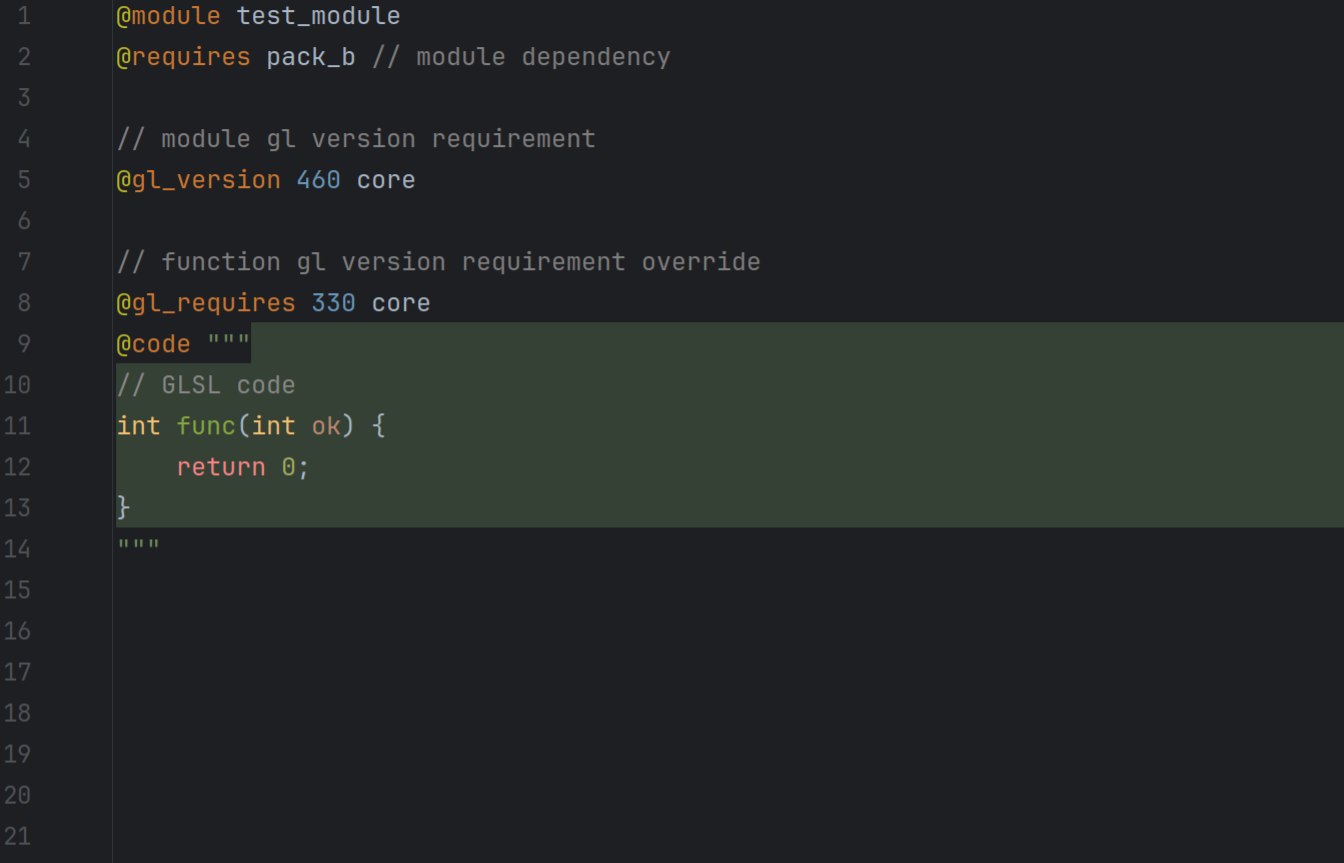
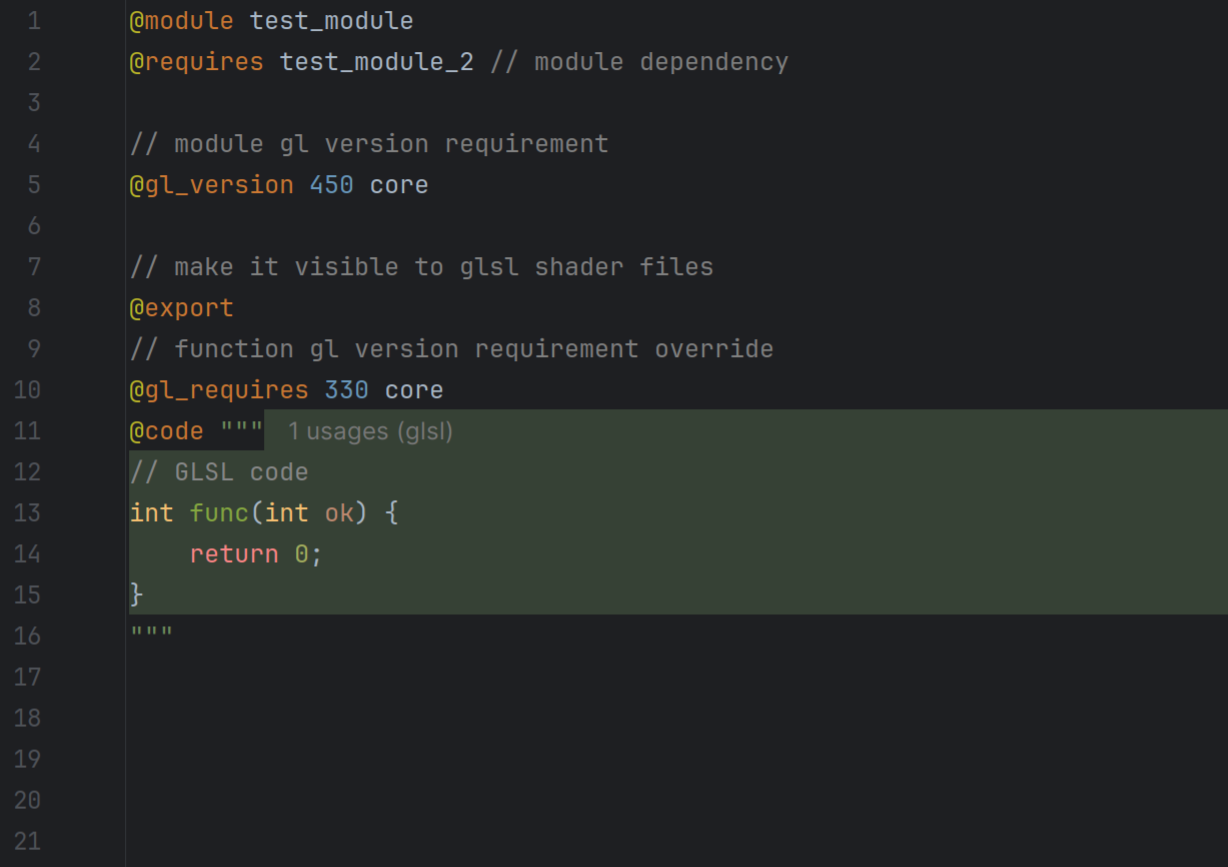
Bump to 0.2.0

diff --git a/README.md b/README.md
@@ -20,7 +20,14 @@ AND it injects GLSL syntax into KSML code blocks as well as injects KSML meta di
 
 > **Note**:
 > You can find a less buggy version of the GLSL plugin (Roi Mordechay) [here](https://github.com/tttsaurus/glsl-plugin-idea).
-> <br>Unfortunately, there is no other better GLSL plugins to support at the moment.
+> <br>Unfortunately, there are no better GLSL plugins to support at the moment.
+
+## Features
+- Real-time function call precondition analysis
+- Code completion
+- Go to declaration
+- Find usages (usage UI inlay support)
+- Rename function declaration and all occurrences
 
 ## IDEA Versions
 

diff --git a/CHANGELOG.md b/CHANGELOG.md
@@ -12,3 +12,11 @@
 - KSML in GLSL `@import` highlight and reference `CTRL Click` resolver
 - Special renderers for `@import`: displays the GL version requirement besides `@import`
 - Delegate GLSL code blocks inside KSML to the GLSL plugin via `LanguageInjector`
+
+## [0.2.0]
+### Added
+- Real-time function call precondition analysis
+- Code completion
+- Go to declaration
+- Find usages (usage UI inlay support)
+- Rename function declaration and all occurrences
